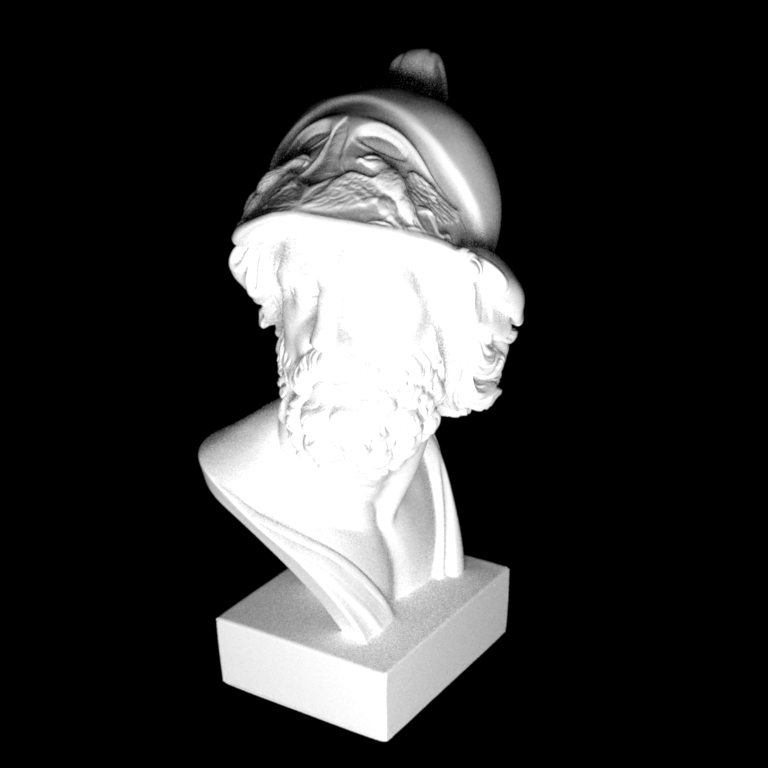
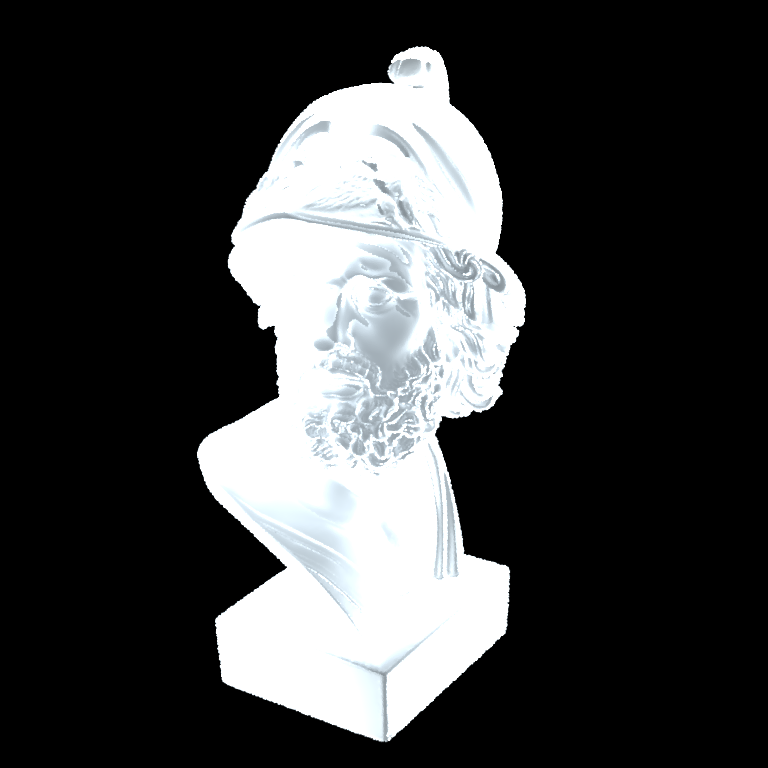
This fucking shit does never work

Changed region(s): [[0.25, 0.0625, 0.6875, 0.9688], [0.3438, 0.9062, 0.4062, 0.9375]]

diff --git a/src/subsurfaceScattering.cpp b/src/subsurfaceScattering.cpp
@@ -46,8 +46,16 @@ public:
 
         sigmaA = propList.getColor("sigmaA", Color3f(0.0f));
         sigmaS = propList.getColor("sigmaS", Color3f(0.0f));
+        Color3f sigmaT = propList.getColor("sigmaT", Color3f(-1.0f));
+
         g = propList.getFloat("g", 0.0f);
         eta = propList.getFloat("eta", 1.0f);
+
+        if (sigmaT != Color3f(-1.0f))
+        {
+            sigmaS = sigmaT * (1 - g);
+            sigmaA = sigmaT - sigmaS;
+        }
     }
 
     /// Evaluate the BRDF model
@@ -62,7 +70,7 @@ public:
         }
         else
         {
-            return diffusionTermBSSRDF(bRec);
+            return computeSingleScattering(bRec);
         }
     }
 
@@ -179,6 +187,17 @@ public:
         return result;
     }
 
+    Color3f diffusionProfile(float distance) 
+    {
+        Color3f D = 1.0f / (3.0f * (sigmaA + sigmaS));
+        Color3f alpha_prime = sigmaS / (sigmaA + sigmaS);
+        
+        // Use the diffusion approximation formula
+        Color3f diffusion = (alpha_prime / (4.0f * M_PI * D)) * Math::exp(-Math::sqrt(3.0f * sigmaA * sigmaS) * distance);
+        
+        return diffusion;
+    }
+
     Color3f dipoleDiffusionAproximation(Point3f point, Photon photon, Color3f sigmaT)
     {
         Color3f sigmaS = sigmaT * (1 - g);
@@ -188,7 +207,7 @@ public:
     }
 
 
-    Color3f diffusionTermBSSRDF(const BSDFQueryRecord &bRec) const
+    Color3f computeMultipleScattering(const BSDFQueryRecord &bRec) const
     {
         Color3f Rd = impPaper_dipoleDiffusionAproximation(bRec.po, bRec.pi);
 
@@ -202,7 +221,74 @@ public:
         Color3f Sd = INV_PI * Ft_i * Rd * Ft_o;
 
         return Sd;
+    } 
+    
+    Color3f computeSingleScattering(const BSDFQueryRecord &bRec) const
+    {
+        // Get refraction direction entering the material
+        float etaI = 1, etaT = eta;
+        float invEta = etaI / etaT;
+
+        Vector3f L = bRec.wo;
+
+        Color3f sigmaT = sigmaA + sigmaS;
+        Vector3f To = (Math::refract(-bRec.wo, Vector3f(0, 0, 1), etaI, etaT)).normalized();
+        if (To.x() == 0 && To.y() == 0 && To.z() == 0)
+            return Color3f(0);
+
+        float sp_o = -log(bRec.sampler->next1D()) / sigmaT.maxCoeff();
+        Point3f p_o = Point3f(0, 0, 0) + sp_o * To;
+        Ray3f shadowRay (p_o, L);
+        
+        // Get intersection point of shadowRay with surface
+        float Pi_offset = -shadowRay.origin.z / shadowRay.direction.z;
+        Point3f Pi = shadowRay(Pi_offset);
+        outgoingPoint = Pi;
+
+        float si = distance(Pi, p_o);
+        float Lcos = absCosine(L, Vector3f(0, 0, 1));
+        float sp_i = si * Lcos / sqrt(1 - pow2(invEta) * (1 - pow2(Lcos)));
+
+        Vector3f Ri, Ti;
+        float Kri = fresnelDielectric(cosine(L, Vector3f(0, 0, 1)), etaI, etaT);
+        float Kti = 1 - Kri;
+
+        Ti = normalize(refract(L, Vector3f(0, 0, 1), etaI, etaT));
+
+        float g2 = pow2(g);
+        float phase = (1-g2) / pow(1+2*g*cosine(Ti, To) + g2, 1.5);
+
+        sampleDirection = Ti;
+
+        float G = absCosine(cameraDirection) / absCosine(sampleDirection);
+        Color3f sigmaTc = sigmaT + sigmaT*G;
+
+        Color3f result = exp(-sp_i*sigmaT) / sigmaTc * phase * Kti;
+
+
+        /********** Compute the correction of the montecarlo estimation (pdf?) *********/
+        // Compute isotropic phase function
+        Color3f _sigmaS = (1 - g) * sigmaS;
+        Color3f _sigmaT = _sigmaS + sigmaA;
+        Color3f _alpha = _sigmaS / _sigmaT;
+        // Effective transport coefficient
+        Color3f sigmaTr = sqrt(3 * sigmaA * _sigmaT);
+        Color3f zr = sqrt(3*(1-_alpha)) / sigmaTr;
+        float r = distance(Point3f(0, 0, 0), Pi);
+
+        Color3f distanceR = sqrt(pow2(r) + pow2(zr));
+        Color3f C1 = zr * (sigmaTr + 1/distanceR);
+
+        float cosWi = cosine(sampleDirection);
+        float cosWo = cosine(cameraDirection);
+
+        // Assuming Ft is a function that returns the Fresnel term
+        double Ft_o = 1 - fresnelDielectric(cosWo, 1.0, eta);
+        double Ft_i = 1 - fresnelDielectric(cosWi, 1.0, eta);
+
+        return result * M_PI * C1 * Ft_o * Ft_i;
     }
+
 
     /// Return a human-readable summary
     std::string toString() const {

diff --git a/src/whitted.cpp b/src/whitted.cpp
@@ -54,14 +54,21 @@ public:
             bsdfQuery.po = intersection.p;
             bsdfQuery.wo = intersection.toLocal(-ray.d);
             bsdfQuery.measure = ESolidAngle;
+            bsdfQuery.sampler = sampler;
 
             Color3f contributions = Color3f(0.0f);
+
+            unsigned long long int photonsUsed = 0;
             
             for (const auto &photon : photons)
             {   
-                if ((photon.p - intersection.p).norm() > 0.1
-                    || photon.radiance == Color3f(0.0f))
+                if (photon.radiance == Color3f(0.0f))
+                {
+                    if (photon.radiance == Color3f(0.0f))
+                        photonsUsed++;
+
                     continue;
+                }
 
                 bsdfQuery.pi = photon.p;
                 bsdfQuery.ni = intersection.toLocal(photon.n);
@@ -70,6 +77,7 @@ public:
                 Color3f radiance = photon.radiance * f;
 
                 contributions += radiance;
+                photonsUsed++;
             }
 
             return contributions / photons.size();
@@ -171,7 +179,7 @@ public:
 
 
         ph.d = wi.normalized();
-        ph.radiance = direct; 
+        ph.radiance = direct / ph.pdf; 
         ph.n = intersection.shFrame.n;
     }
 

diff --git a/include/nori/math.h b/include/nori/math.h
@@ -46,6 +46,8 @@ class Math
 
     /// Compute the square root of a float
     inline static float sqrt(float a) { return std::sqrt(a); }
+    inline static Color3f sqrt(const Color3f &a) { return Color3f(std::sqrt(a.x()), std::sqrt(a.y()), std::sqrt(a.z())); }
+    inline static Color3f exp(const Color3f &a) { return Color3f(std::exp(a.x()), std::exp(a.y()), std::exp(a.z())); }
 
     inline static float safeSqrt(float a) { return std::sqrt(std::max(a, 0.0f)); }
     
@@ -298,6 +300,21 @@ class Math
 
         // Average the perpendicular and parallel reflectance
         return (rPerp + rParallel) * 0.5f;
+    }
+
+    static Vector3f refract (Vector3f wi, Vector3f n, float etaI, float etaT)
+    {
+        float eta = etaI / etaT;
+
+        float cosThetaI = dot(wi, n);
+        float sin2ThetaI = std::max(0.0f, 1.0f - cosThetaI * cosThetaI);
+        float sin2ThetaT = eta * eta * sin2ThetaI;
+
+        if (sin2ThetaT >= 1.0f)
+            return Vector3f(0.0f, 0.0f, 0.0f);
+
+        float cosThetaT = std::sqrt(1.0f - sin2ThetaT);
+        return eta * (-wi) + (eta * cosThetaI - cosThetaT) * n;
     }
 
 

diff --git a/src/pathtracing.cpp b/src/pathtracing.cpp
@@ -152,7 +152,7 @@ std::vector<Photon> Pth::generateSubsurfaceSamples(const Scene *scene, Sampler *
     {
         u_int32_t nTriangles = mesh->nTriangles();
 
-        for (u_int32_t i = 0; i < nTriangles; i++)
+        for (u_int32_t i = 0; i < nTriangles/10; i++)
         {
             float pdf;
             Point3f p; Normal3f n; Point2f uv;

diff --git a/include/nori/bsdf.h b/include/nori/bsdf.h
@@ -52,6 +52,8 @@ struct BSDFQueryRecord {
     /// Measure associated with the sample
     EMeasure measure;
 
+    Sampler *sampler == nullptr;
+
     bool isCameraRay = true;
 
     /// Create a new record for sampling the BSDF
